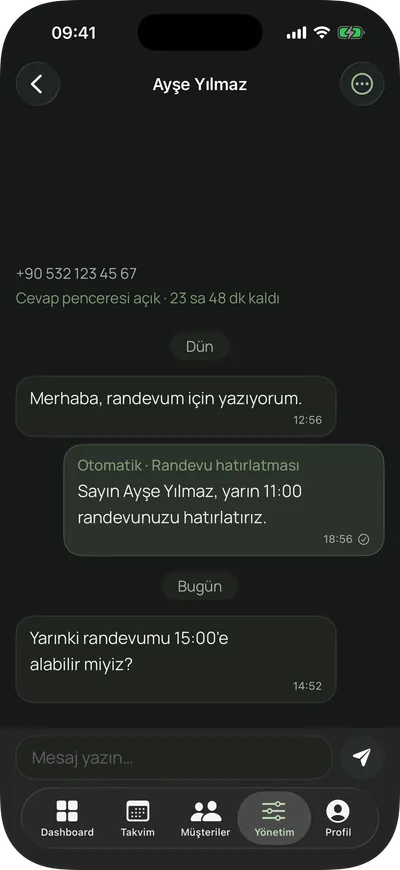
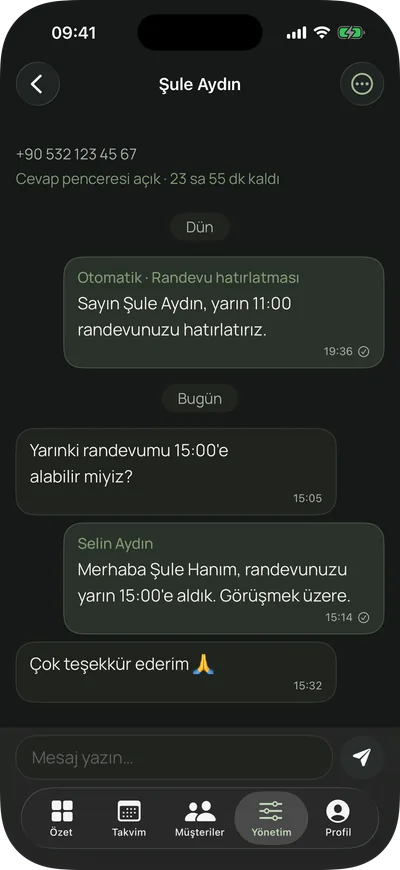
feat(features): WhatsApp bölümünde personelin elle yanıtı
A5 mock'u geri alındı; bölüm yine iOS uygulamasının sohbet ekranını
gösteriyor. Yeni görüntüde otomatik hatırlatma, danışanın saat değişikliği
isteği, personelin uygulamadan yazdığı yanıt (Selin Aydın) ve danışanın
teşekkürü var. Açık ve koyu tema yeniden çekildi.

diff --git a/app/sections/feature-story.tsx b/app/sections/feature-story.tsx
@@ -4,15 +4,11 @@ import { Check } from "lucide-react";
 
 import { BookingDevices } from "~/components/browser";
 import { Phone, PhoneFrame, ScreenImage } from "~/components/phone";
-import { WhatsAppChatScreen } from "~/components/whatsapp-chat";
 import type { ScreenName } from "~/config/screens";
 import { cn } from "~/lib/cn";
 
-/**
- * `visual: "booking"`: telefon yerine tarayıcı + telefon (BookingDevices).
- * `visual: "whatsapp"`: ekran görüntüsü yerine hastanın WhatsApp'ı (HTML mock).
- */
-type Chapter = { screen: ScreenName; visual?: "booking" | "whatsapp"; title: string; body: string; points: string[] };
+/** `visual: "booking"`: telefon yerine tarayıcı + telefon (BookingDevices). */
+type Chapter = { screen: ScreenName; visual?: "booking"; title: string; body: string; points: string[] };
 
 const chapters: Chapter[] = [
   {
@@ -42,7 +38,6 @@ const chapters: Chapter[] = [
   },
   {
     screen: "whatsapp-thread",
-    visual: "whatsapp",
     title: "WhatsApp konuşmaları uygulamada",
     body: "Danışan mesajları ekibin ortak gelen kutusuna düşer. Otomatik hatırlatmalar ve yanıtlarınız aynı konuşmada kalır.",
     points: ["Kendi işletme numaranızdan", "Okunmamış ve kapalı ayrımı", "Konuşmadan randevu yönetimi"],
@@ -85,10 +80,6 @@ function ChapterBlock({ chapter, active, onActive }: { chapter: Chapter; active:
           className="mx-auto mt-10 w-full max-w-[440px] lg:hidden"
           sizes={{ browser: "(min-width: 480px) 414px, 92vw", phone: "(min-width: 480px) 200px, 44vw" }}
         />
-      ) : chapter.visual === "whatsapp" ? (
-        <PhoneFrame className="mx-auto mt-10 w-[250px] sm:w-[280px] lg:hidden">
-          <WhatsAppChatScreen />
-        </PhoneFrame>
       ) : (
         <div className="mx-auto mt-10 w-[250px] sm:w-[280px] lg:hidden">
           <Phone name={chapter.screen} sizes="280px" />
@@ -136,7 +127,7 @@ export function FeatureStory() {
                 >
                   <PhoneFrame className="mx-auto w-[300px]">
                     {chapters.map((chapter, i) =>
-                      chapter.visual === "booking" ? null : (
+                      chapter.visual ? null : (
                         <motion.div
                           key={chapter.screen}
                           initial={false}
@@ -145,11 +136,7 @@ export function FeatureStory() {
                           className={cn(i === 0 ? "relative" : "absolute inset-0")}
                           aria-hidden={active !== i}
                         >
-                          {chapter.visual === "whatsapp" ? (
-                            <WhatsAppChatScreen />
-                          ) : (
-                            <ScreenImage name={chapter.screen} sizes="300px" />
-                          )}
+                          <ScreenImage name={chapter.screen} sizes="300px" />
                         </motion.div>
                       ),
                     )}

diff --git a/app/config/screens.ts b/app/config/screens.ts
@@ -19,7 +19,7 @@ export const screens = {
   customer: "Danışan kartında randevu, işlem notu ve paket zaman çizelgesi",
   package: "Seans paketi detayı: kalan hak, geçerlilik ve kalem bazında kullanım",
   "treatment-plan": "İmplant tedavi planı: tamamlanan aşamalar, randevusu olmayan sıradaki aşama, planla ve WhatsApp ile hatırlat",
-  "whatsapp-thread": "WhatsApp konuşması: danışan mesajı ve otomatik randevu hatırlatması",
+  "whatsapp-thread": "WhatsApp konuşması: otomatik hatırlatma, danışanın saat değişikliği isteği ve personelin uygulamadan yazdığı yanıt",
   "message-log": "Mesaj günlüğü: ulaşan, okunan ve gönderilemeyen bildirimler",
   "reminder-settings": "Şubeye özel hatırlatma saatleri ayarı",
   "report-occupancy": "Doluluk raporu, uygulayıcılara göre grafik",
